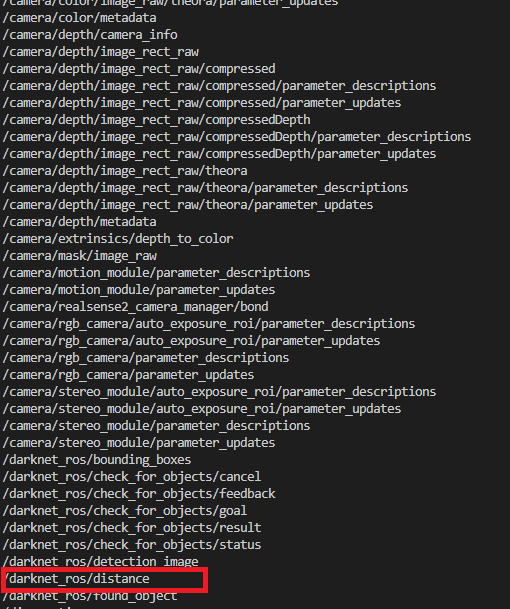
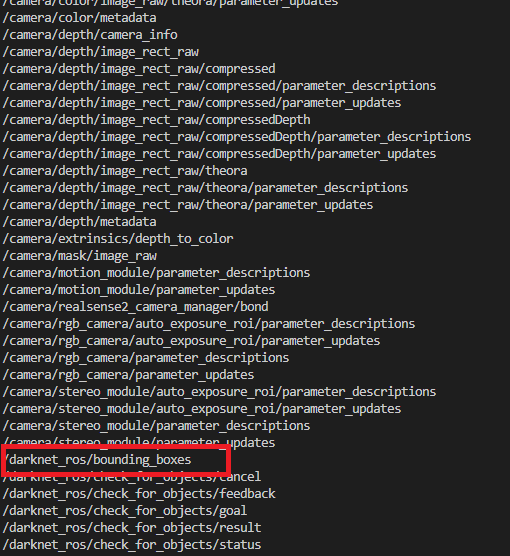
update readme

diff --git a/README.md b/README.md
@@ -31,7 +31,7 @@ $ cd src
 $ git clone --recursive https://github.com/SeongJunKang/yolov4-for-darknet_ros.git
 ```
 
-Directory tree structure
+Directory tree structure and update files
 ```
 ├── darknet
 │   ├── 3rdparty
@@ -57,11 +57,14 @@ Directory tree structure
 │   ├── data
 │   │   └── labels
 │   ├── include
+│   │   └── *darknet.h
 │   ├── results
 │   ├── scripts
 │   │   ├── log_parser
 │   │   └── windows
 │   └── src
+│       └── *image.c
+│       └── *image.h
 ├── darknet_ros
 │   ├── config
 │   ├── doc
@@ -70,6 +73,7 @@ Directory tree structure
 │   ├── launch
 │   ├── scripts
 │   ├── src
+│   │   └── *YoloObjectDetector.cpp
 │   ├── test
 │   └── yolo_network_config
 │       ├── cfg
@@ -149,8 +153,6 @@ $ roslaunch darknet_ros darknet_ros.launch
 <img src="readmemedia/camera_and_yolo.png" width=90%>
 </div>
 
-This file  `darknet_ros/darknet_ros/src/ObjectDistance.py` generate distance topic 
-We can see the topic for distance `/darknet_ros/distance`
 ```bash
 $ rostopic list
 ```
@@ -159,12 +161,14 @@ $ rostopic list
 </div>
 
 ```bash
-$ rostopic topic /darknet_ros/distance
+$ rostopic topic /darknet_ros/bounding_boxes
 ```
 <div align=center>
 <img src="readmemedia/distance.png" width=90%>
 </div>
 
+## Depth distance unit
+depth distance value units is millimeter.
 
 # How to build this environment??
 Here is the documentation to set up this environment.
